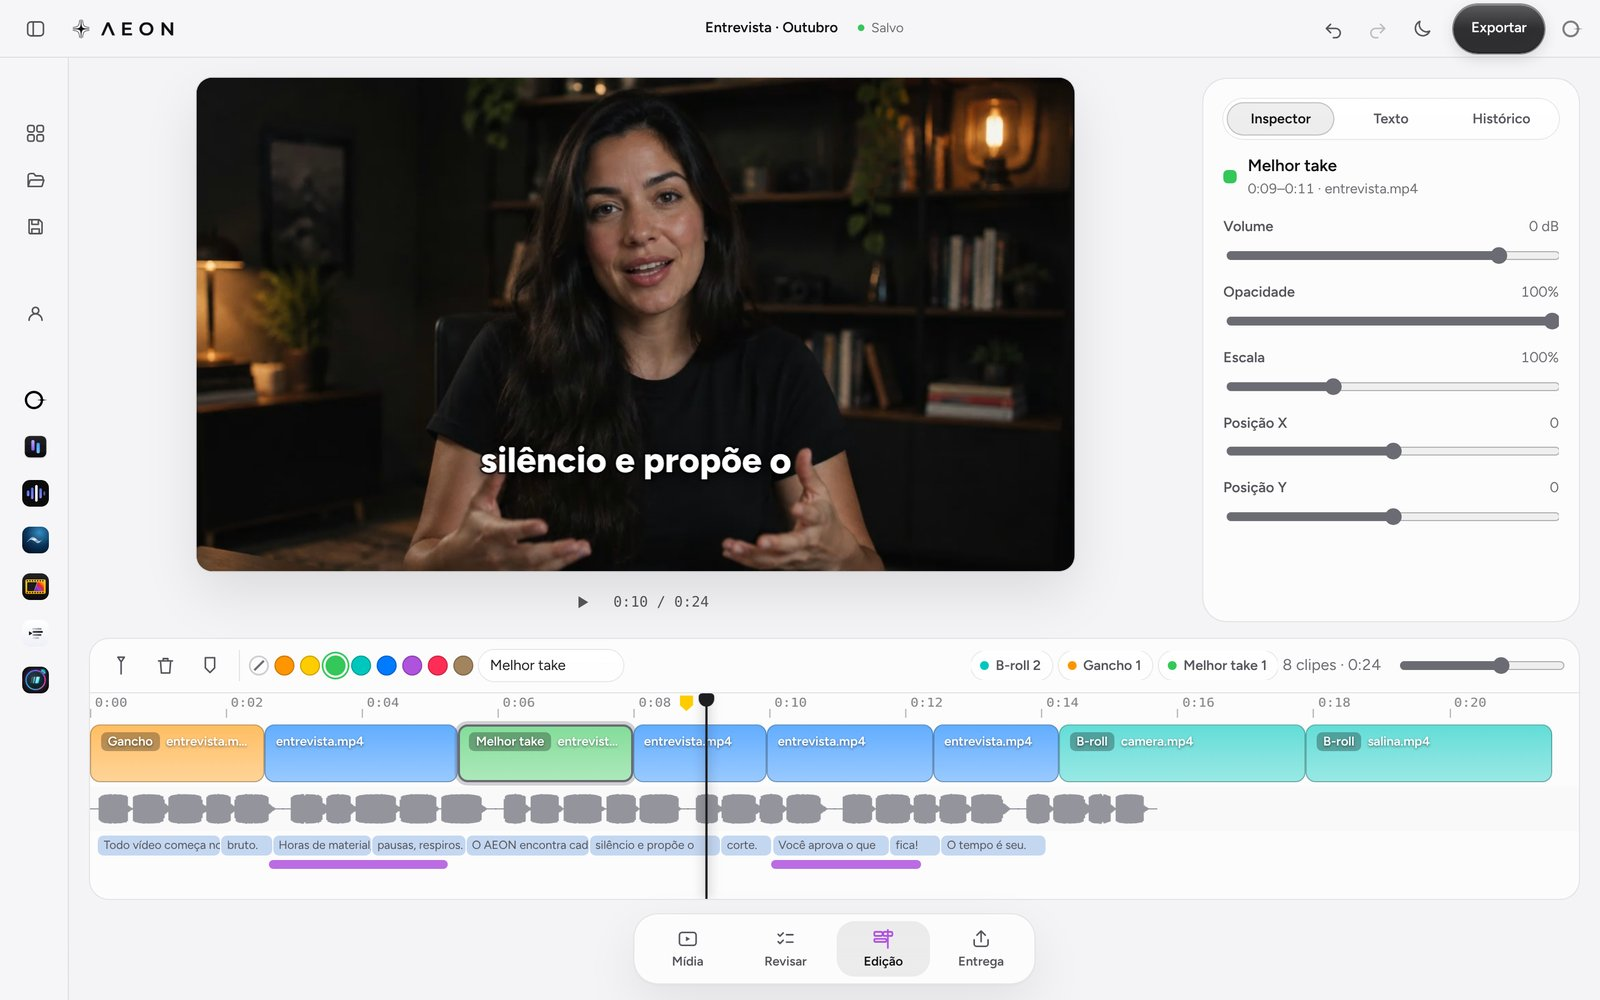
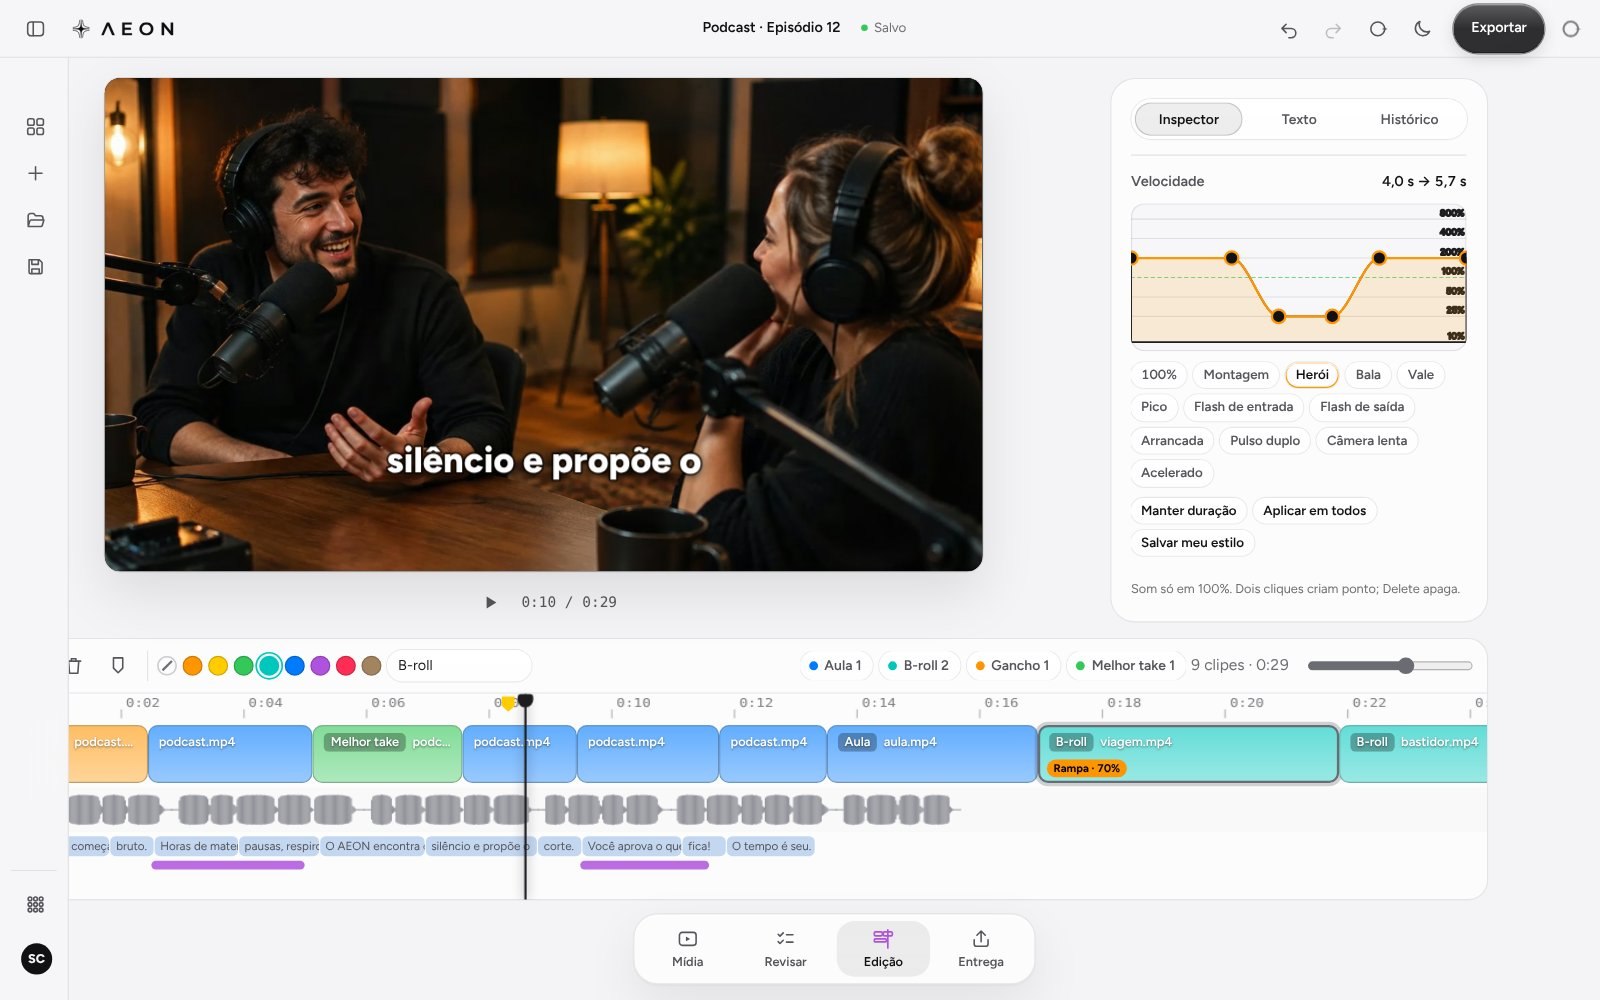
AEON: imagens variadas na página inicial e a fita dos tipos de vídeo
A mesma criadora aparecia em todas as demonstrações. Oito cenas novas do Higgsfield (gpt_image_2_5,
0,25 crédito cada): podcast, aula, reels, review, receita, viagem, entrevista e bastidor.

- Teste ao vivo: uma cena por aba, com troca suave e deriva lenta de câmera enquanto toca.
- Faixa "Do podcast à receita.": os tipos de vídeo passam numa fita (para no mouse e no foco, só
  anda na tela, parada com reduzir movimento), como os palcos do Synquei e do SOBEDESCE.
- Por dentro: as telas do app refeitas com podcast, aula, viagem e bastidor, e a viagem com a rampa
  Herói no Inspector.

Claude-Session: https://claude.ai/code/session_01DogcVXwCU4tCwcvpF1b14X

diff --git a/products/ai-edit/index.html b/products/ai-edit/index.html
@@ -117,7 +117,11 @@
 
           <div class="estudio-corpo">
             <figure class="visor" aria-label="Prévia do vídeo de exemplo">
-              <div class="visor-quadro"><img src="marca/home/criadora.jpg" alt="Uma criadora falando para a câmera" width="1344" height="752" loading="lazy" id="visorImg" /><video id="visorVideo" muted playsinline preload="none" poster="marca/home/falesia.jpg" data-src="marca/home/falesia.mp4" aria-label="Mar e nuvens na falésia, na velocidade da curva"></video></div>
+              <div class="visor-quadro">
+                <img class="visor-cena" data-cena="cortes" src="marca/home/podcast.jpg" alt="Dois apresentadores gravando um podcast" width="1344" height="752" loading="lazy" />
+                <img class="visor-cena" data-cena="legenda" src="marca/home/rua.jpg" alt="Um criador gravando com o celular na rua, à noite" width="1344" height="752" loading="lazy" />
+                <img class="visor-cena" data-cena="zoom" src="marca/home/review.jpg" alt="Uma criadora mostrando uma lente na mesa de trabalho" width="1344" height="752" loading="lazy" />
+                <img class="visor-cena" data-cena="entrega" src="marca/home/entrevista.jpg" alt="Um entrevistado num escritório com luz de estúdio" width="1344" height="752" loading="lazy" /><video id="visorVideo" muted playsinline preload="none" poster="marca/home/falesia.jpg" data-src="marca/home/falesia.mp4" aria-label="Mar e nuvens na falésia, na velocidade da curva"></video></div>
               <span class="visor-velocidade" id="visorVelocidade" aria-hidden="true">100%</span>
               <p class="visor-legenda" id="visorLegenda" aria-live="off"></p>
               <span class="visor-zoom" id="visorZoom" aria-hidden="true"></span>
@@ -233,6 +237,26 @@
             <p class="hora-saida">Desfazer, histórico e salvamento sozinho.</p>
           </li>
         </ol>
+      </section>
+
+      <!-- 3b · para todo vídeo falado: os tipos de vídeo passam numa fita (para no mouse e no foco; parada com reduzir movimento) -->
+      <section class="takes" aria-labelledby="takes-titulo">
+        <div class="cabeca-sec ao-rolar">
+          <p class="olho">Para todo vídeo falado</p>
+          <h2 id="takes-titulo" class="titulo"><span class="fino">Do podcast</span> <span class="forte">à receita.</span></h2>
+        </div>
+        <div class="fita-moldura ao-rolar" id="fita" tabindex="0" aria-label="Tipos de vídeo que o AEON edita">
+          <ul class="fita">
+            <li class="take"><img src="marca/home/takes/podcast.jpg" alt="" width="760" height="425" loading="lazy" /><p><b>Podcast</b><span>Pausas fora em lote</span></p></li>
+            <li class="take"><img src="marca/home/takes/aula.jpg" alt="" width="760" height="425" loading="lazy" /><p><b>Aula</b><span>Legenda palavra por palavra</span></p></li>
+            <li class="take"><img src="marca/home/takes/rua.jpg" alt="" width="760" height="425" loading="lazy" /><p><b>Reels</b><span>Legenda Pop, em 9:16</span></p></li>
+            <li class="take"><img src="marca/home/takes/review.jpg" alt="" width="760" height="425" loading="lazy" /><p><b>Review</b><span>Zoom na fala</span></p></li>
+            <li class="take"><img src="marca/home/takes/receita.jpg" alt="" width="760" height="425" loading="lazy" /><p><b>Receita</b><span>Câmera lenta no prato</span></p></li>
+            <li class="take"><img src="marca/home/takes/viagem.jpg" alt="" width="760" height="425" loading="lazy" /><p><b>Viagem</b><span>Rampa Herói</span></p></li>
+            <li class="take"><img src="marca/home/takes/entrevista.jpg" alt="" width="760" height="425" loading="lazy" /><p><b>Entrevista</b><span>Para o Premiere e o DaVinci</span></p></li>
+            <li class="take"><img src="marca/home/takes/bastidor.jpg" alt="" width="760" height="425" loading="lazy" /><p><b>Bastidor</b><span>B-roll com cor e etiqueta</span></p></li>
+          </ul>
+        </div>
       </section>
 
       <!-- 4 · por dentro: as telas de verdade num MacBook, na ordem do trabalho (troca sozinha até a pessoa escolher) -->

diff --git a/products/ai-edit/site/site.css b/products/ai-edit/site/site.css
@@ -646,15 +646,43 @@ p {
   background: #000;
   aspect-ratio: 16 / 9;
 }
-.visor-quadro,
-.visor-quadro img {
+.visor-quadro {
+  position: relative;
   width: 100%;
   height: 100%;
 }
-.visor-quadro img {
+/* uma cena por aba: a da vez aparece por cima (troca suave) e deriva devagar, como câmera na mão, enquanto toca.
+   A deriva usa scale/translate próprios; o zoom da fala usa transform: os dois se somam */
+.visor-cena {
+  position: absolute;
+  inset: 0;
+  width: 100%;
+  height: 100%;
   object-fit: cover;
   transform-origin: 50% 42%;
-  transition: transform 0.75s var(--mola-e);
+  opacity: 0;
+  scale: 1.04;
+  transition:
+    opacity 0.7s ease,
+    transform 0.75s var(--mola-e),
+    scale 1.2s var(--mola-e);
+}
+.visor-cena.ativa {
+  opacity: 1;
+  scale: 1;
+}
+.estudio.tocando .visor-cena.ativa {
+  animation: deriva 16s ease-in-out infinite alternate;
+}
+@keyframes deriva {
+  from {
+    scale: 1.01;
+    translate: 0 0;
+  }
+  to {
+    scale: 1.07;
+    translate: -1.2% -0.8%;
+  }
 }
 .visor-legenda {
   position: absolute;
@@ -1306,6 +1334,90 @@ html:not(.js) .hora-saida {
 }
 .horas .hora:nth-child(3) {
   --d: 0.36s;
+}
+
+/* ───────── 3b · para todo vídeo falado: a fita dos tipos de vídeo, andando devagar (para no mouse e no foco) ───────── */
+.takes {
+  padding: 0 0 140px;
+  overflow: hidden;
+}
+.fita-moldura {
+  margin-top: 56px;
+  -webkit-mask-image: linear-gradient(90deg, transparent, #000 6%, #000 94%, transparent);
+  mask-image: linear-gradient(90deg, transparent, #000 6%, #000 94%, transparent);
+  outline-offset: 6px;
+}
+.fita {
+  list-style: none;
+  margin: 0;
+  padding: 0 24px;
+  display: flex;
+  gap: 18px;
+  width: max-content;
+}
+.fita-moldura.rodando .fita {
+  animation: fita 70s linear infinite;
+}
+.fita-moldura:hover .fita,
+.fita-moldura:focus-within .fita {
+  animation-play-state: paused;
+}
+@keyframes fita {
+  to {
+    transform: translateX(calc(-50% - 9px));
+  }
+}
+.take {
+  position: relative;
+  flex: none;
+  width: clamp(240px, 26vw, 360px);
+  aspect-ratio: 16 / 10;
+  border-radius: 22px;
+  overflow: hidden;
+  background: #000;
+  box-shadow:
+    0 0 0 1px var(--linha),
+    0 20px 50px rgb(0 0 0 / 0.25);
+  transition: transform 0.5s var(--mola);
+}
+.take img {
+  width: 100%;
+  height: 100%;
+  object-fit: cover;
+  transition: scale 1.2s var(--mola);
+}
+.take:hover {
+  transform: translateY(-4px);
+}
+.take:hover img {
+  scale: 1.06;
+}
+.take p {
+  position: absolute;
+  inset: auto 0 0;
+  margin: 0;
+  padding: 40px 18px 16px;
+  display: grid;
+  gap: 4px;
+  background: linear-gradient(0deg, rgb(0 0 0 / 0.72), transparent);
+  color: #fff;
+}
+.take b {
+  font-size: 20px;
+  font-weight: 800;
+  letter-spacing: -0.02em;
+}
+.take span {
+  justify-self: start;
+  font-size: 12.5px;
+  font-weight: 600;
+  padding: 4px 10px;
+  border-radius: 999px;
+  color: #fff;
+  background: rgb(255 255 255 / 0.16);
+  -webkit-backdrop-filter: blur(12px);
+  backdrop-filter: blur(12px);
+  box-shadow: inset 0 0 0 1px rgb(255 255 255 / 0.22);
 }
 
 /* ───────── 4 · por dentro: as telas do app no MacBook, escolhidas na lista ───────── */
@@ -2244,6 +2356,9 @@ html:not(.js) .hora-saida {
   .js .ao-rolar {
     opacity: 1;
     transform: none;
+  }
+  .fita-moldura {
+    overflow-x: auto;
   }
 }
 

diff --git a/products/ai-edit/site/estudio.js b/products/ai-edit/site/estudio.js
@@ -90,7 +90,8 @@ function iniciar() {
   }
 
   // ───────── a prévia: legenda no estilo escolhido, zoom na ênfase, tempo de saída ─────────
-  const img = $('#visorImg')
+  // a cena da aba (cada aba tem a sua foto; a da vez fica por cima, com a troca suave do CSS)
+  const cenas = $$('.visor-cena', estudio)
   const legenda = $('#visorLegenda')
   const selo = $('#visorZoom')
   let chaveLegenda = ''
@@ -99,7 +100,7 @@ function iniciar() {
     const t = TRECHOS.find((x) => S.t >= x.ini && S.t < x.ini + x.d) || TRECHOS[0]
     // zoom: só nas frases de ênfase, com a mola do CSS
     const escala = t.fala && t.enfase ? S.zoom : 1
-    img.style.transform = escala > 1 ? `scale(${escala})` : ''
+    for (const c of cenas) c.style.transform = escala > 1 && c.dataset.cena === S.aba ? `scale(${escala})` : ''
     selo.textContent = `${Math.round(S.zoom * 100)}%`
     selo.classList.toggle('visivel', escala > 1)
     // legenda: some na pausa; o bloco da vez com a palavra da vez
@@ -189,6 +190,7 @@ function iniciar() {
         if (foco) b.focus()
       }
     }
+    for (const c of cenas) c.classList.toggle('ativa', c.dataset.cena === nome)
     if (nome === 'entrega') desenharPacote()
     if (nome === 'velocidade') requestAnimationFrame(desenharCurva)
     tocarVideo(S.tocando && S.emTela)

diff --git a/products/ai-edit/site/home.js b/products/ai-edit/site/home.js
@@ -205,6 +205,18 @@ if (explorar) {
   mostrarTela(0)
 }
 
+// ───────── a fita dos tipos de vídeo: duplicada para andar sem emenda; anda só enquanto aparece ─────────
+const fita = $('#fita')
+if (fita && !reduzir.matches) {
+  const ul = $('.fita', fita)
+  for (const li of [...ul.children]) {
+    const copia = li.cloneNode(true)
+    copia.setAttribute('aria-hidden', 'true')
+    ul.append(copia)
+  }
+  new IntersectionObserver((es) => fita.classList.toggle('rodando', es[0].isIntersecting), { rootMargin: '80px' }).observe(fita)
+}
+
 // ───────── para o resto, o ecossistema: cada ferramenta no seu lugar (da lista da família) ─────────
 const LUGARES = [
   { id: 'finishing', faz: 'Cor e LUT' },

diff --git a/docs/validation.md b/docs/validation.md
@@ -2273,6 +2273,20 @@ Anotar por aparelho: sistema, tamanho do arquivo, tempo, destino e o que falhou.
 - Não validado: a importação dos degraus num Final Cut, Premiere e DaVinci de verdade; câmera lenta com mistura de
   quadros ou fluxo óptico (não feito).
 
+## AEON: imagens variadas na página inicial (31/10/2026)
+
+- Oito cenas novas no Higgsfield (`gpt_image_2_5`, 16:9, 1344×752, 0,25 crédito cada, 2 créditos no total): podcast,
+  aula, reels na rua, review, receita, viagem, entrevista e bastidor, em `marca/home/*.jpg` (80–160 KB) e
+  `marca/home/takes/*.jpg` (760 px, 32–64 KB).
+- Teste ao vivo: cada aba com a sua cena (podcast nos Cortes, rua na Legenda, review no Zoom, entrevista na Entrega;
+  a falésia em vídeo na Velocidade), com troca suave e uma deriva lenta de câmera enquanto toca.
+- Faixa nova "Do podcast à receita.": os oito tipos de vídeo passam sozinhos (duplicados para não ter emenda), param no
+  mouse e no foco, só andam na tela e viram rolagem lateral com "reduzir movimento".
+- "Por dentro": `scripts/telas.mjs` refeito com podcast, aula, viagem e bastidor (antes era a mesma criadora em todas
+  as telas) e a viagem com a rampa Herói; espera o "Salvo" antes de cada foto.
+- Conferido no Chromium em 1440×900 e 390×844, sem rolagem lateral; `test/fechado.test.js` e as telas da página
+  inicial passam.
+
 ## OG com a paisagem da home e o app no celular igual ao do computador (27/10/2026)
 
 - OG (`scripts/marca/og-paisagem.html` → `app/opengraph-image.jpg` e `twitter-image.jpg`): a paisagem do topo da
